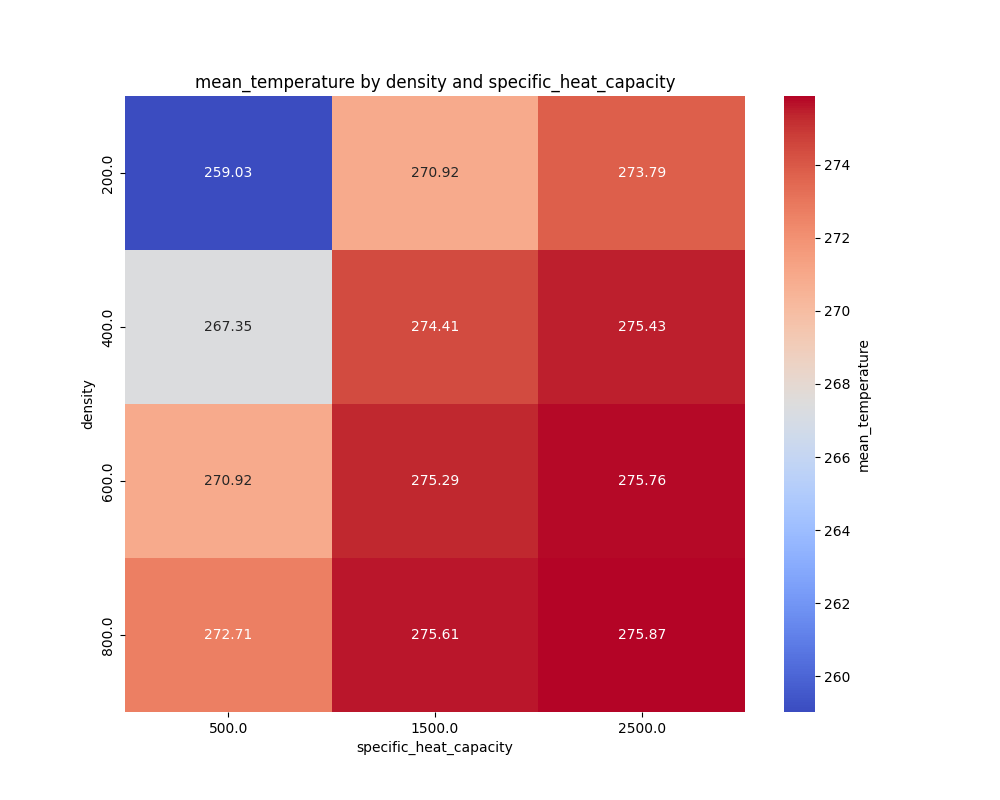
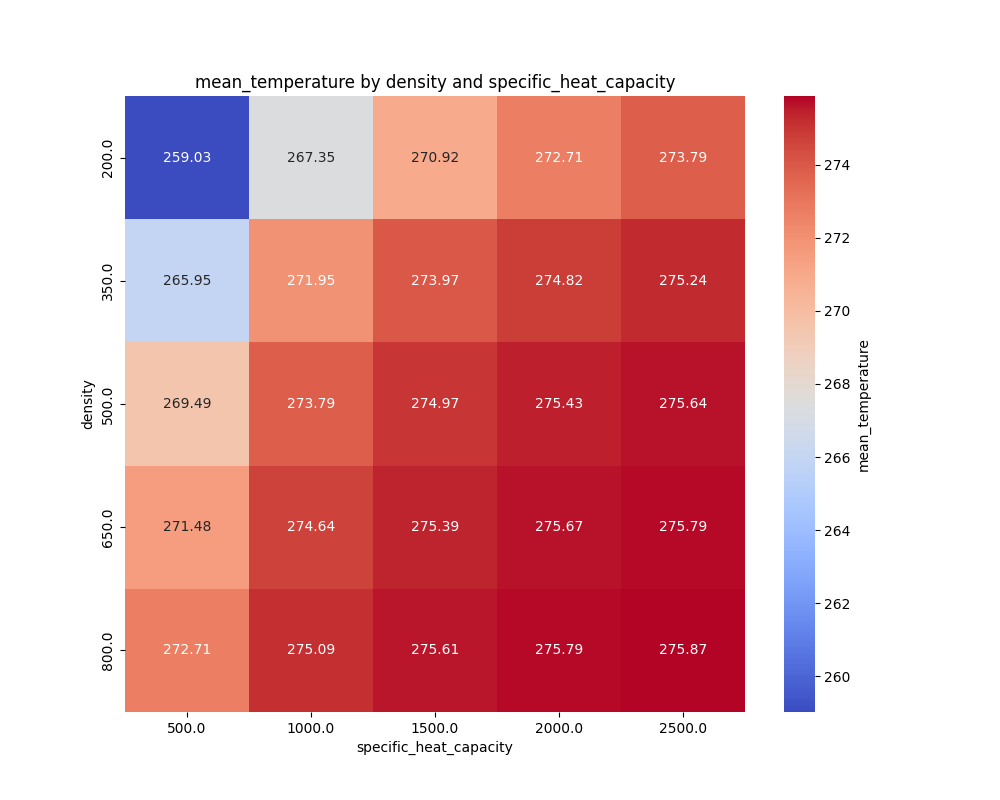
Parallelised thermophysical_simulation_runner.py so it uses more cores

diff --git a/thermophysical_simulation_runner.py b/thermophysical_simulation_runner.py
@@ -21,6 +21,7 @@ TODO:
 Author: Duncan Lyster
 """
 
+import concurrent.futures
 import time
 import matplotlib.pyplot as plt
 import seaborn as sns
@@ -38,89 +39,100 @@ from thermophysical_body_model import (
     calculate_secondary_radiation_coefficients
 )
 
-# Model setup and initialization
-shape_model_name = "5km_ico_sphere_80_facets.stl"
-path_to_shape_model_file = f"shape_models/{shape_model_name}"
-path_to_setup_file = "model_setups/generic_model_parameters.json"
-simulation = Simulation(path_to_setup_file)
-shape_model = read_shape_model(path_to_shape_model_file, simulation.timesteps_per_day, simulation.n_layers, simulation.max_days)
+def run_model_with_parameters(combination, shape_model_snapshot, path_to_setup_file, param_names):
+    simulation = Simulation(path_to_setup_file)  # Create a new simulation instance for thread safety
 
-# Model component calculations
-shape_model = calculate_visible_facets(shape_model)
-shape_model = calculate_insolation(shape_model, simulation)
-shape_model = calculate_initial_temperatures(shape_model, simulation.n_layers, simulation.emissivity)
-shape_model = calculate_secondary_radiation_coefficients(shape_model)
+    # No need for a global param_names variable as it is now passed as a parameter
 
-# Parameters for analysis with their ranges
-parameter_ranges = {
-    'density': np.linspace(200, 800, 4),  # Example ranges
-    'thermal_conductivity': np.linspace(0.1, 1.0, 3),
-    'specific_heat_capacity': np.linspace(500, 2500, 3),
-    # Add or remove parameters as needed
-}
-
-# Generate all combinations of parameter values
-param_names = list(parameter_ranges.keys())
-param_values = [parameter_ranges[name] for name in param_names]
-all_combinations = list(product(*param_values))
-
-# Results storage
-results = []
-
-# Exploration execution
-print("Starting parameter exploration...")
-for combination in tqdm.tqdm(all_combinations, desc="Parameter combinations"):
-    # Update simulation parameters
+    # Update simulation parameters for the current combination
     for param_name, value in zip(param_names, combination):
         setattr(simulation, param_name, value)
     
-    # Run the model
+    # Run the thermophysical model and calculate statistics
     start_time = time.time()
-    final_timestep_temperatures = thermophysical_body_model(shape_model, simulation)
+    final_timestep_temperatures = thermophysical_body_model(shape_model_snapshot, simulation)
     execution_time = time.time() - start_time
 
-    # Calculate statistics
-    mean_temperature = np.mean(final_timestep_temperatures)
-    temperature_iqr = np.percentile(final_timestep_temperatures, 75) - np.percentile(final_timestep_temperatures, 25)
-
-    # Store results
-    results.append({
+    return {
         'parameters': dict(zip(param_names, combination)),
-        'mean_temperature': mean_temperature,
-        'temperature_iqr': temperature_iqr,
+        'mean_temperature': np.mean(final_timestep_temperatures),
+        'temperature_iqr': np.percentile(final_timestep_temperatures, 75) - np.percentile(final_timestep_temperatures, 25),
         'execution_time': execution_time
-    })
+    }
 
-# Convert the list of results to a DataFrame
-results_df = pd.DataFrame(results)
 
-# Flatten the 'parameters' dictionary into separate columns for easier analysis
-# Assuming 'results_df' is already defined and contains a 'parameters' column with dictionary-like data
-parameters_df = pd.json_normalize(results_df['parameters'])
-results_df = pd.concat([results_df.drop(columns=['parameters']), parameters_df], axis=1)
+def main():
+    # Model setup and initialization
+    shape_model_name = "5km_ico_sphere_80_facets.stl"
+    path_to_shape_model_file = f"shape_models/{shape_model_name}"
+    path_to_setup_file = "model_setups/generic_model_parameters.json"
+    simulation = Simulation(path_to_setup_file)
+    shape_model = read_shape_model(path_to_shape_model_file, simulation.timesteps_per_day, simulation.n_layers, simulation.max_days)
 
-output_folder = "runner_outputs/"
+    # Model component calculations
+    shape_model = calculate_visible_facets(shape_model)
+    shape_model = calculate_insolation(shape_model, simulation)
+    shape_model = calculate_initial_temperatures(shape_model, simulation.n_layers, simulation.emissivity)
+    shape_model = calculate_secondary_radiation_coefficients(shape_model)
 
-# Function to generate and save heatmaps
-def generate_heatmaps(df, parameters, value_column):
-    for param_pair in combinations(parameters, 2):  # Get all combinations of parameter pairs
-        pivot_table = df.pivot_table(index=param_pair[0], columns=param_pair[1], values=value_column, aggfunc="mean")
-        plt.figure(figsize=(10, 8))
-        sns.heatmap(pivot_table, annot=True, fmt=".2f", cmap="coolwarm", cbar_kws={'label': value_column})
-        plt.title(f'{value_column} by {param_pair[0]} and {param_pair[1]}')
-        plt.xlabel(param_pair[1])
-        plt.ylabel(param_pair[0])
-        plt.savefig(f"{output_folder}heatmap_{param_pair[0]}_vs_{param_pair[1]}.png")  # Save each heatmap as a PNG file
-        plt.close()  # Close the figure to avoid displaying it inline if running in a notebook
+    # Parameters for analysis with their ranges
+    parameter_ranges = {
+        'density': np.linspace(200, 800, 5),  # Example ranges
+        'thermal_conductivity': np.linspace(0.1, 1.0, 5),
+        'specific_heat_capacity': np.linspace(500, 2500, 5),
+        # Add or remove parameters as needed
+    }
 
-# Call the function for mean_temperature
-generate_heatmaps(results_df, param_names, 'mean_temperature')
+    param_names = list(parameter_ranges.keys())
+    param_values = [parameter_ranges[name] for name in param_names]
+    all_combinations = list(product(*param_values))
 
-print("Heatmaps generated and saved.")
+    # Include param_names with each combination
+    param_combinations_with_shape_model = [
+        (combination, shape_model, path_to_setup_file, param_names) for combination in all_combinations
+    ]
 
-csv_file_path = "runner_outputs/thermophysical_model_results.csv"
+    # Parallel exploration execution
+    print("Starting parameter exploration...")
+    with concurrent.futures.ProcessPoolExecutor() as executor:
+        futures = [executor.submit(run_model_with_parameters, *params) for params in param_combinations_with_shape_model]
+        results = list(tqdm.tqdm(concurrent.futures.as_completed(futures), total=len(futures)))
 
-# Save the DataFrame to a CSV file
-results_df.to_csv(csv_file_path, index=False)
+    results = [f.result() for f in futures]
 
-print("Results saved to 'thermophysical_model_results.csv'.")
+    # Convert the list of results to a DataFrame
+    results_df = pd.DataFrame(results)
+
+    # Flatten the 'parameters' dictionary into separate columns for easier analysis
+    # Assuming 'results_df' is already defined and contains a 'parameters' column with dictionary-like data
+    parameters_df = pd.json_normalize(results_df['parameters'])
+    results_df = pd.concat([results_df.drop(columns=['parameters']), parameters_df], axis=1)
+
+    output_folder = "runner_outputs/"
+
+    # Function to generate and save heatmaps
+    def generate_heatmaps(df, parameters, value_column):
+        for param_pair in combinations(parameters, 2):  # Get all combinations of parameter pairs
+            pivot_table = df.pivot_table(index=param_pair[0], columns=param_pair[1], values=value_column, aggfunc="mean")
+            plt.figure(figsize=(10, 8))
+            sns.heatmap(pivot_table, annot=True, fmt=".2f", cmap="coolwarm", cbar_kws={'label': value_column})
+            plt.title(f'{value_column} by {param_pair[0]} and {param_pair[1]}')
+            plt.xlabel(param_pair[1])
+            plt.ylabel(param_pair[0])
+            plt.savefig(f"{output_folder}heatmap_{param_pair[0]}_vs_{param_pair[1]}.png")  # Save each heatmap as a PNG file
+            plt.close()  # Close the figure to avoid displaying it inline if running in a notebook
+
+    # Call the function for mean_temperature
+    generate_heatmaps(results_df, param_names, 'mean_temperature')
+
+    print("Heatmaps generated and saved.")
+
+    csv_file_path = "runner_outputs/thermophysical_model_results.csv"
+
+    # Save the DataFrame to a CSV file
+    results_df.to_csv(csv_file_path, index=False)
+
+    print("Results saved to 'thermophysical_model_results.csv'.")
+
+if __name__ == '__main__':
+    main()